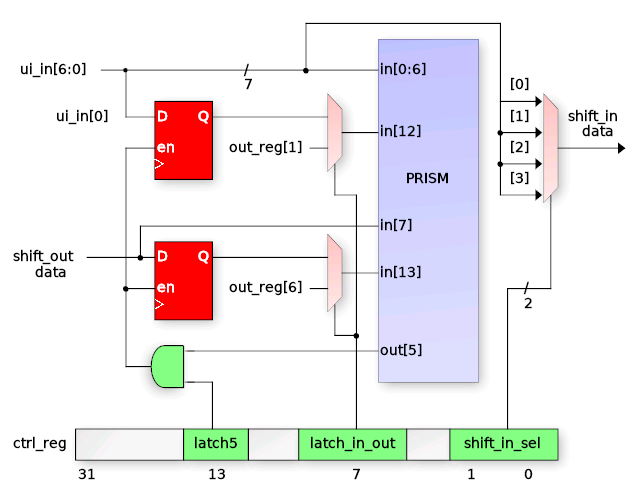
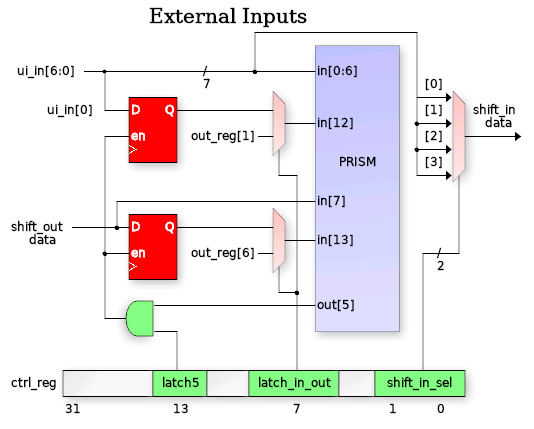
Removed div2 clock for PRISM based on feedback from RebelMike that timing is no issue.

diff --git a/docs/info.md b/docs/info.md
@@ -51,25 +51,29 @@ drive a "conditional output".  This is an output who's value is not strictly dep
 static values in the STEW for the current state, but rather depends on the selected input during
 that state.
 
+### State Looping (important)
+
 In larger PRISM implementations, each state has "dual-compare" with two N-bit LUTs which allows
 jumping to one of two possible states.  Due to size restrictions, this peripheral does not include
 dual-compare.  Instead the PRISM implementation has (in each state's STEW), a single
-"increment state" bit.  In any state where this bit is set and the LUT output is FALSE (i.e no jump),
-then the state will increment to the next state, and the "starting state" of the first occurance
-of this will be saved.  Then each successive state can test a different set of inputs to jump to
-different states.  When a state is encountered without the 'inc' bit set, PRISM will loop back to
-the "starting state" and loop through that set of states until the first TRUE from a LUT,
-clearing the loop.
+"increment state" bit.
 
-TL/DR:
-  1. Load a Chroma defining the FSM and enable PRISM
-  2. State starts at zero
-  3. Each state chooses up to 3 of 16 inputs via config bits
-  4. 2-input LUT decides if "jump to defined state" occurs
-  5. Increment bit decides if "state looping" is in effect
-  6. State looping ends when first LUT jump occurs
-  7. Outputs bits from STEW for "non-jump" and "transitional jump"
-  8. One conditional output based on single selected input per state
+In any state where the 'inc' bit is set and the LUT output is FALSE (i.e no jump),
+then the state will increment to the next state, and the "starting state" of the first occurance
+of this will be saved (i.e. start of loop).  Then each successive state can test a different set of
+inputs to jump to different states.  When a state is encountered with the 'inc' bit NOT set, PRISM
+will loop back to the "starting state" and loop through that set of states until the first TRUE
+from a LUT causing a jump, clearing the loop.
+
+### TL/DR
+  1. Load a Chroma defining the FSM and enable PRISM.
+  2. State starts at zero.
+  3. Each state chooses up to 3 of 16 inputs via config bits.
+  4. 2-input LUT decides if "jump to defined state" occurs.
+  5. Increment bit decides if "state looping" is in effect.
+  6. State looping ends when first LUT jump occurs.
+  7. Outputs bits from STEW for "non-jump" and "transitional jump".
+  8. One conditional output based on single selected input per state.
 
 ## External PRISM Inputs
 
@@ -148,6 +152,22 @@ The PRISM Peripheral has, itself, peripherals.  Those are:
   7. Conditional output destination selection
   8. Controllable latched inputs (2-bits)
 
+## 8-Bit Counter (count2)
+
+The 8-bit counter is an up/down/clear counter controllable from the PRISM chroma.  There are three
+PRISM outputs plus a ctrl_reg bit that contols the operation (see figure below).  Upon reset (or disabling
+PRISM) the count will be zero.  In any PRISM state, the counter can be cleared, incremented or decremented
+(assuming decrement has been enabled via the count2_dec ctrl_reg bit).  The decrement is provided as 
+a configurable feature in case it is not needed but uo_out[6] is needed (since they share the same out[5] signal).
+
+![](08_8bit_counter.png)
+
+The current 8-bit count2 value is compared against both the 8-bit count2_compare register (fixed register accessible
+by TinyQV with R/W access) *and* the comm_data register (also R/W accessible).  The result of each of these
+compares are made available on PRISM inputs in[11] and in[15].  A running chroma can use these compare inputs
+for timing, terminal count checking, etc.
+
+
 ## Chroma
 
 Chroma are PRISM's version of "personalities".  Each chroma is a unique hue of PRISM's
@@ -189,7 +209,7 @@ inputs, outputs and state transitions:
 
 Chroma are compiled into PRISM programmable bitstreams via a custom fork of Yosys (see link below)
 using a configuration file describing the architecture in the TinyQV PRISM peripheral.  In addition
-to bitstream generation, the Yosys PRISM backend also calculates the ctrl_reg value for selecting
+to bitstream generation, the Yosys PRISM backend also calculates the ctrl_reg value for 
 configuring the PRISM peripheral muxes, etc.  There are several output formats including C,
 Python and columnar list:
 
@@ -205,14 +225,13 @@ Python and columnar list:
 |  7 |    0 |    0 |    0 |   0 |    0 |  001 | 000 |    f |    0 | 3c008000000 |
 
 The table has the following fields
-
  - ST: the state (obvious)
  - Mux0: Selects input for LUT2 input 0 (jump decision)
  - Mux1: Selects input for LUT2 input 1
  - Mux2: Selects input for LUT1 Conditional Output
  - Inc: Set when next state looping is requested (i.e. 'else state <= ST_A')
- - JmpA: The state to jump to if LUT2 output is TRUE
- - OutA: Outputs during jump to JmpA state (LSB is out[0])
+ - JmpA: The "Jump to" state if LUT2 output is TRUE
+ - OutA: Outputs during "jump to" JmpA state (LSB is PRISM out[0])
  - Out: Output during no-jump, steady-state dwelling
  - CfgA: The LUT2 4-bit lookup table values
  - CfgB: The LUT1 2-bit lookup table values
